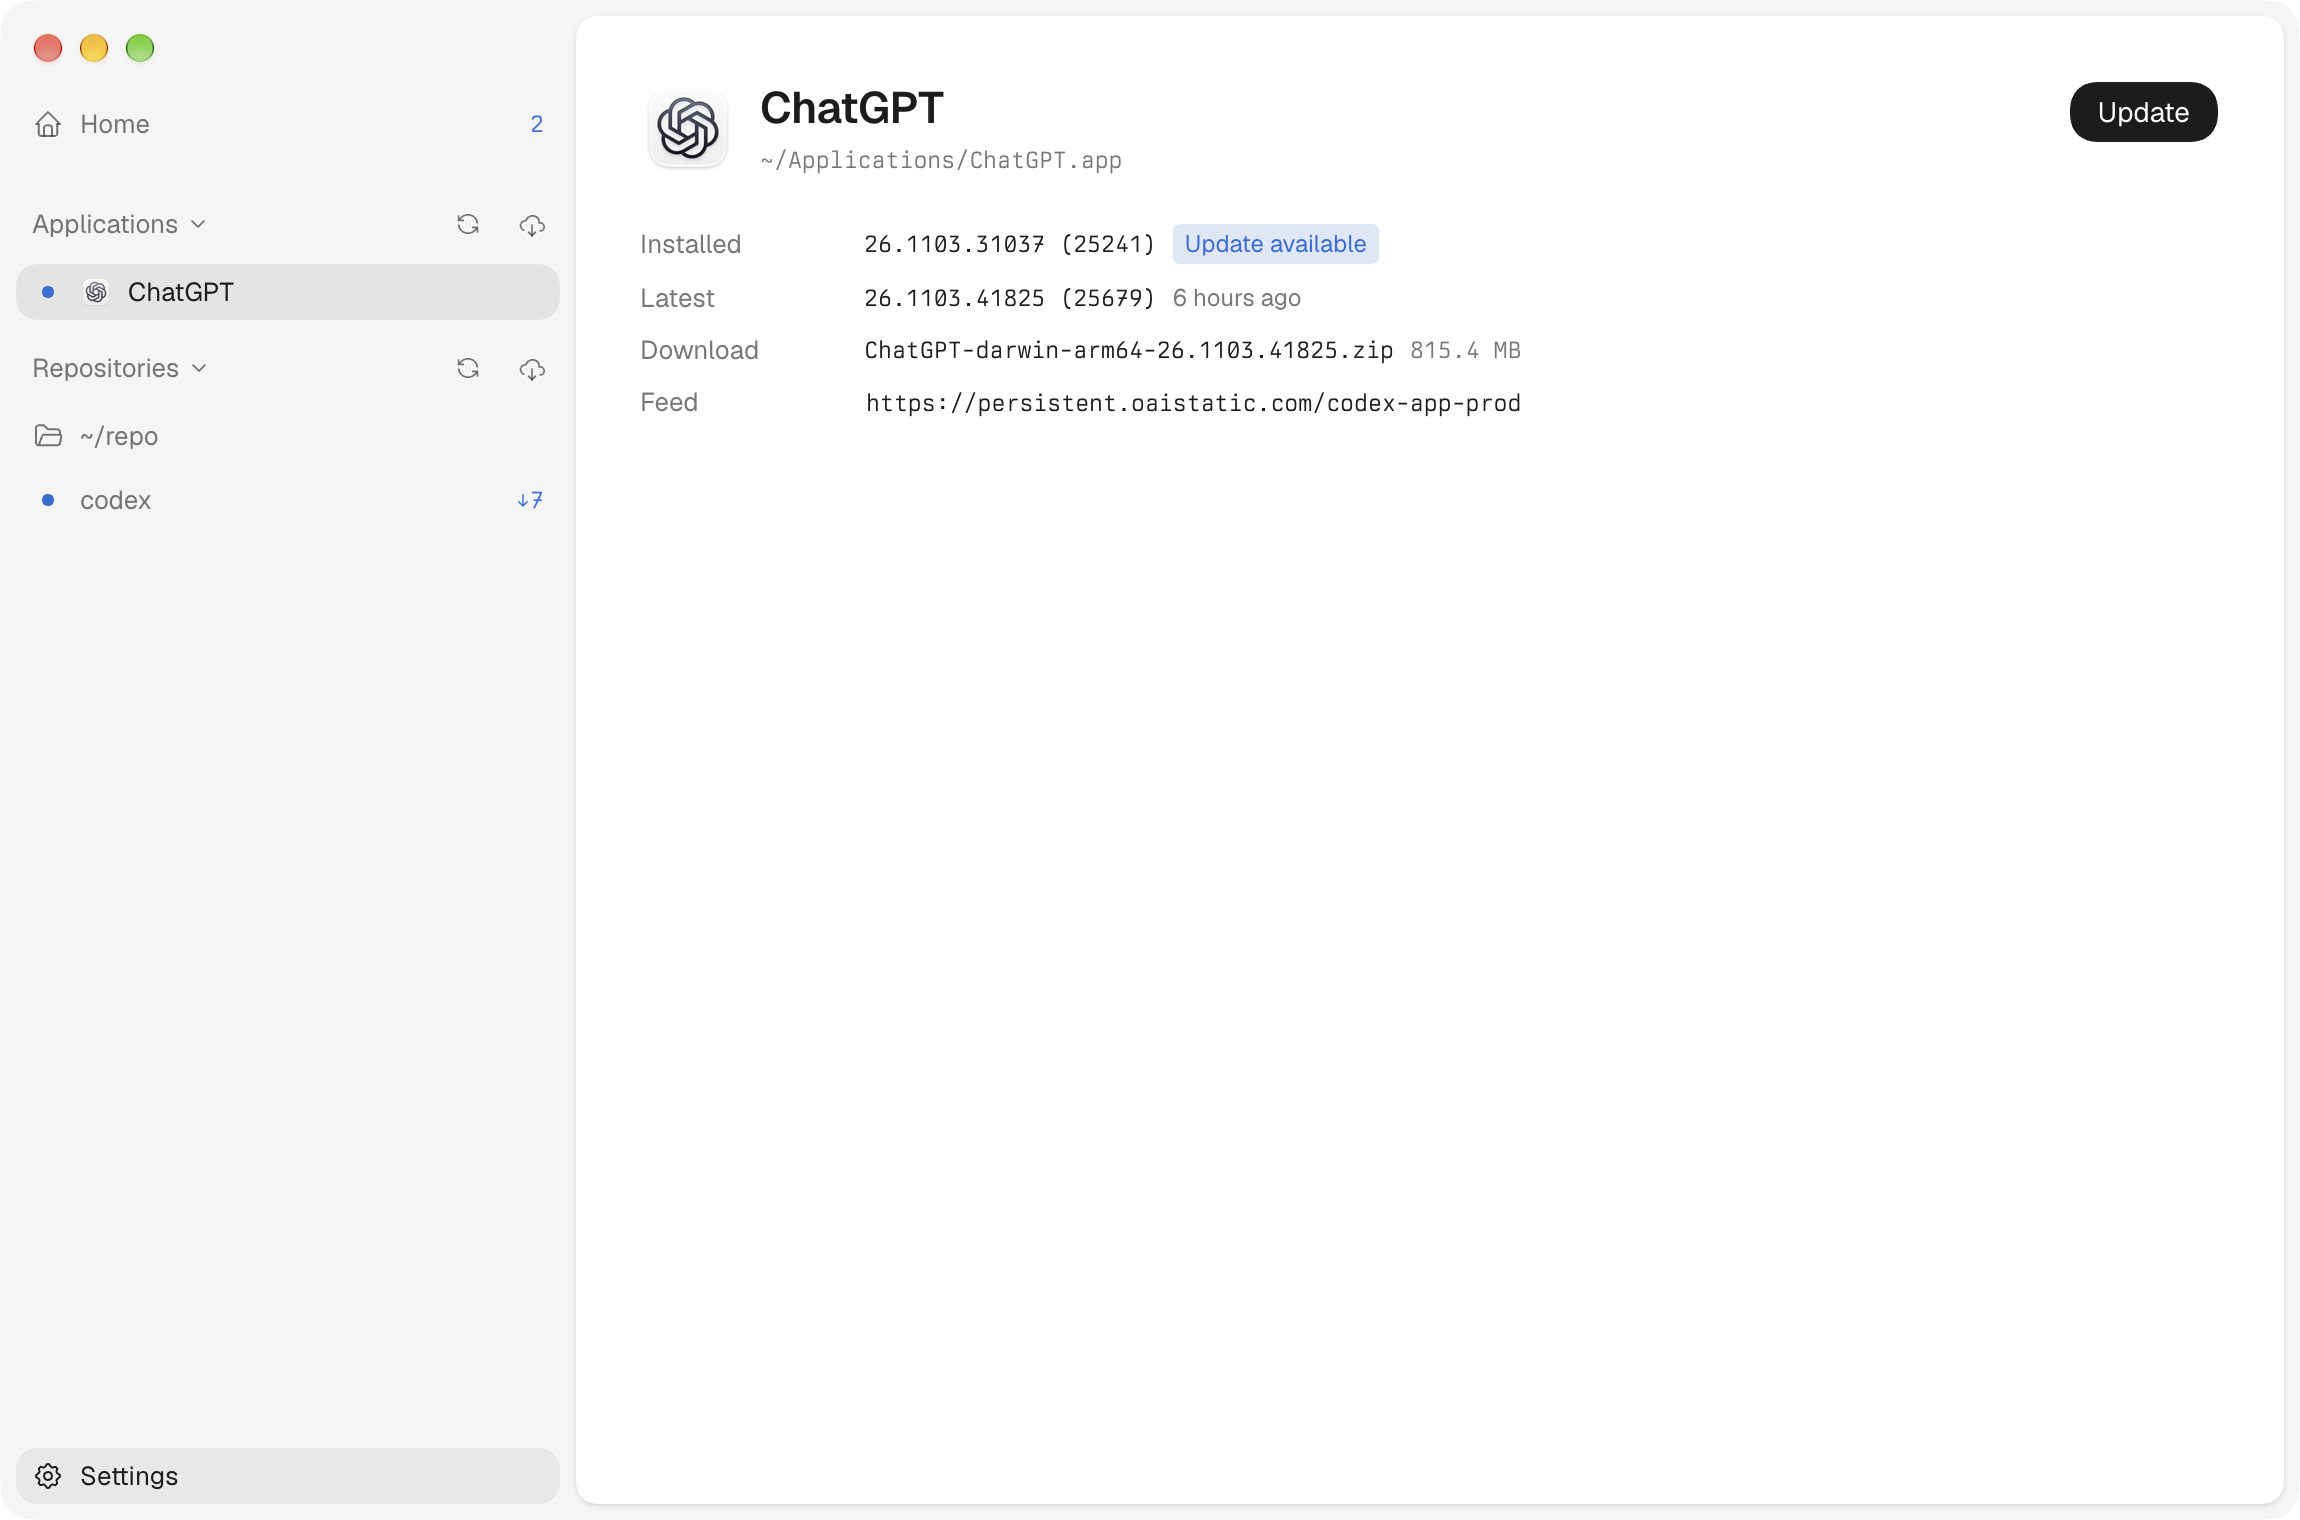
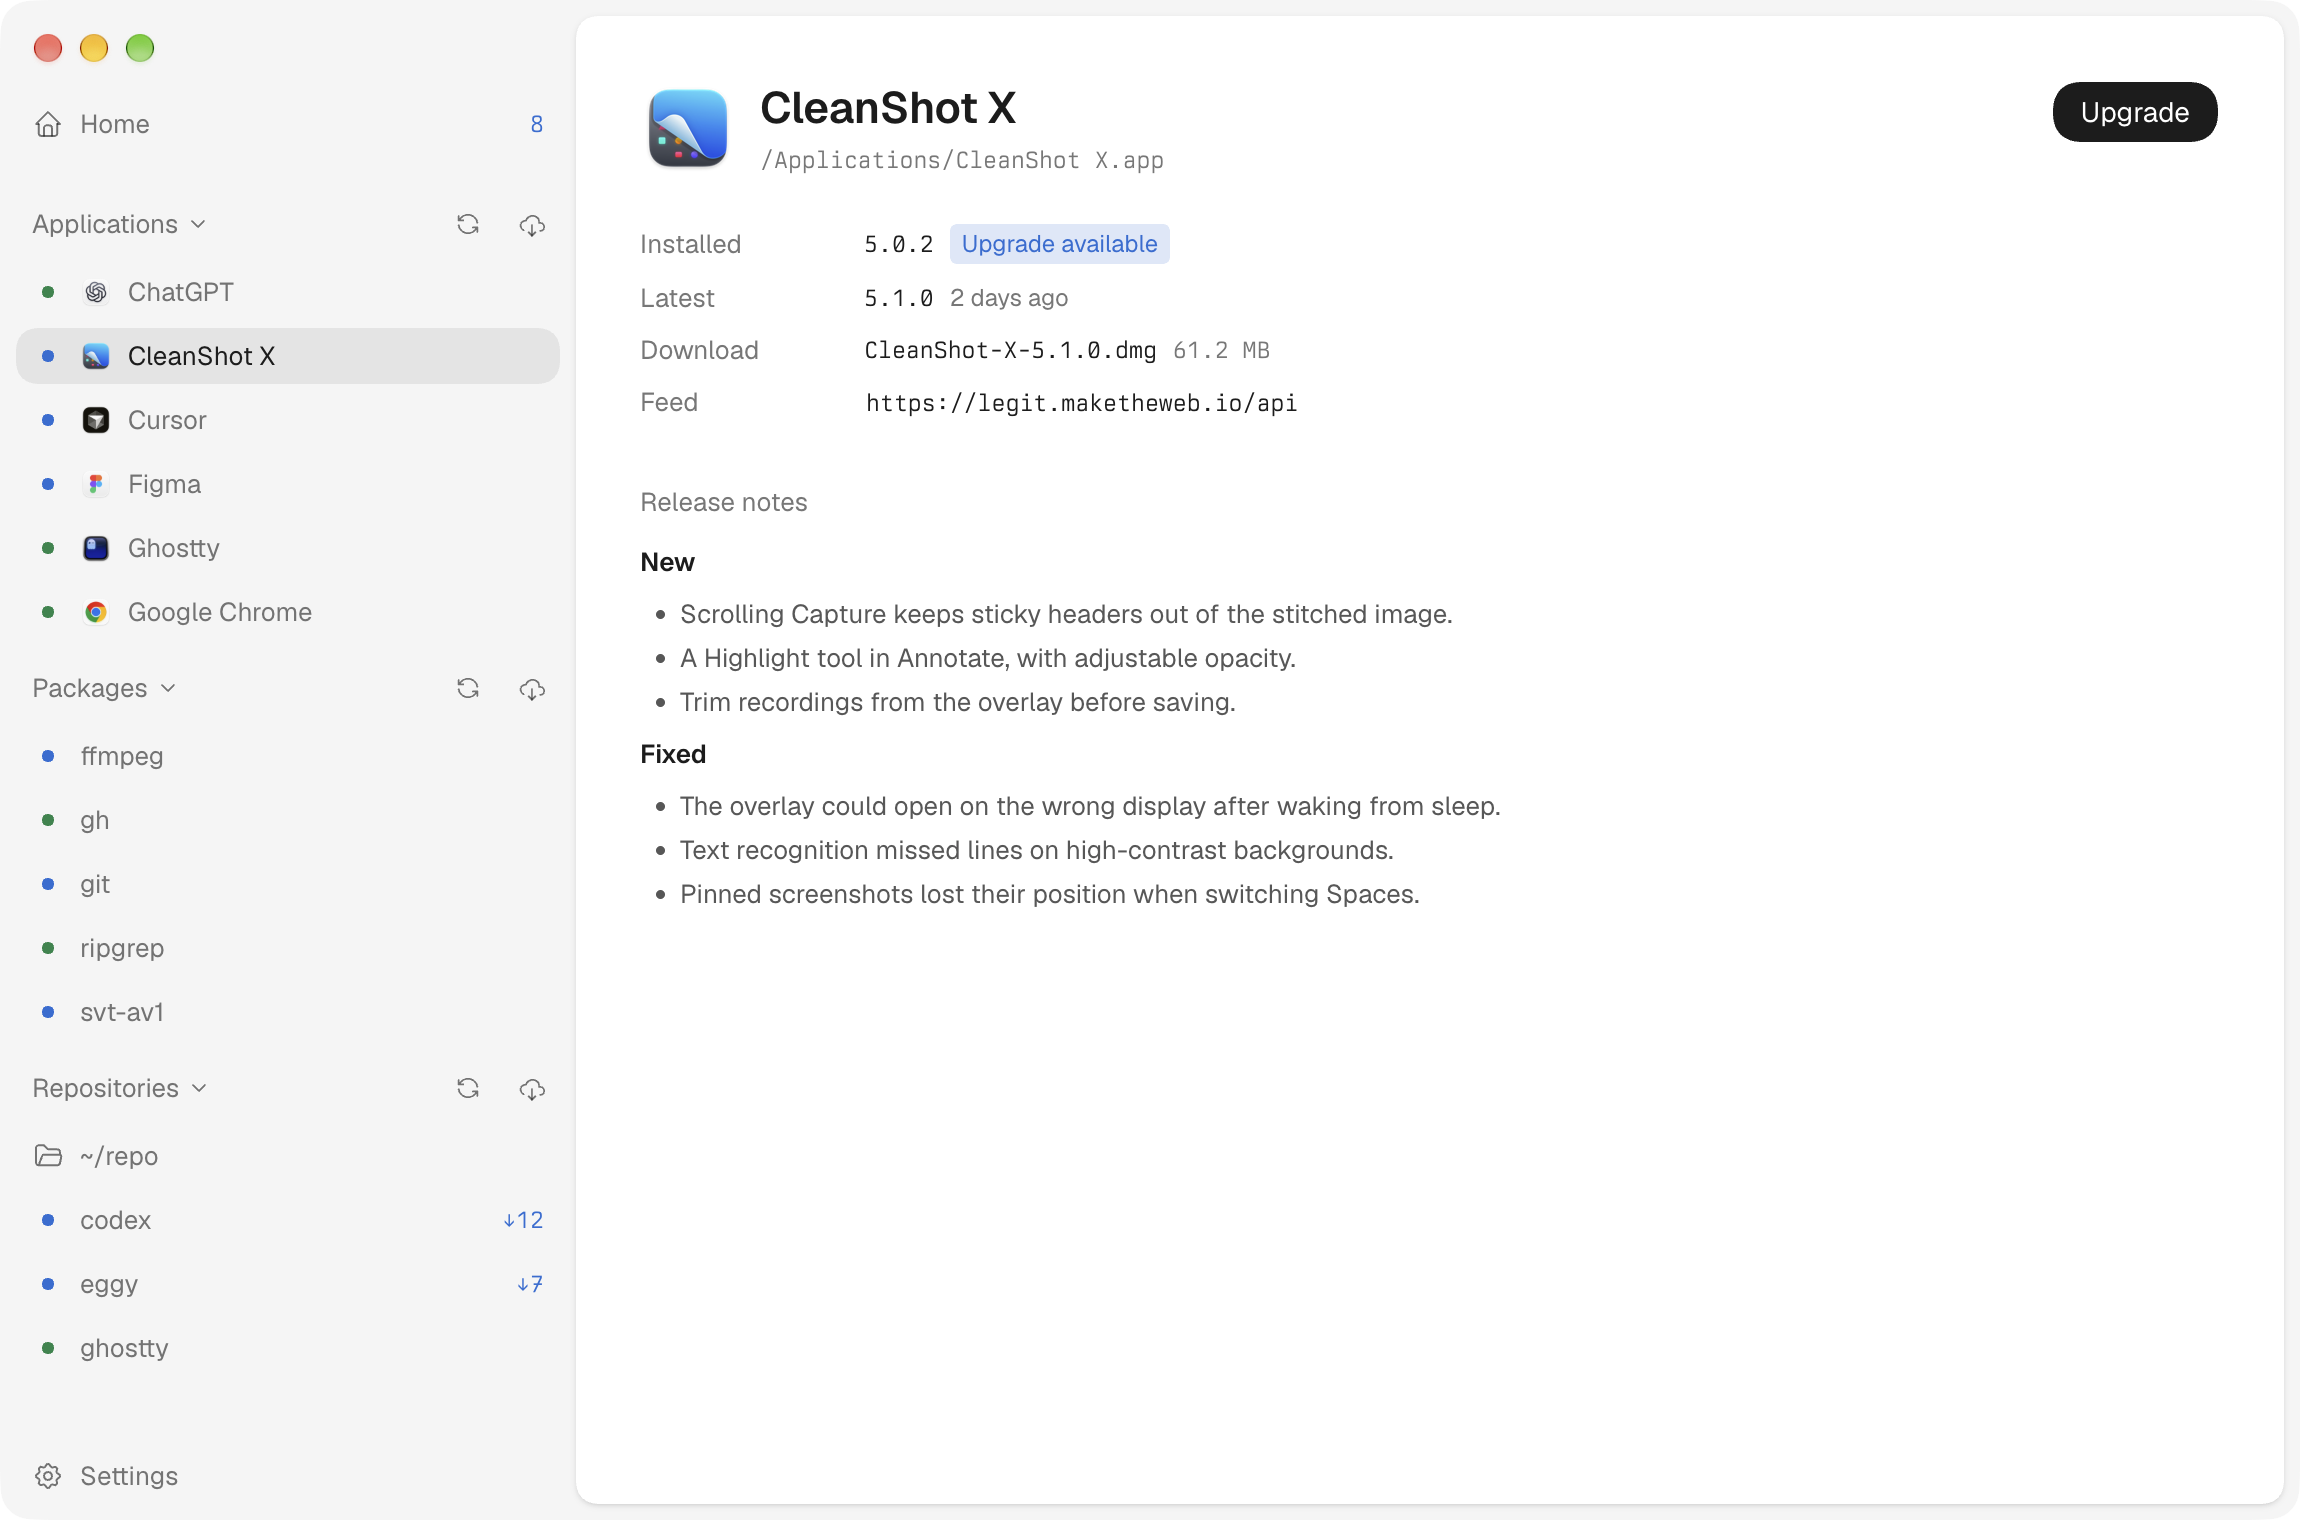
docs: tighten readme and refresh screenshots
describe what each feature runs instead of selling it, and show packages

- rewrite the readme in short technical sentences with exact commands
- state how application upgrades are verified per feed type
- retake home, application, and repository screenshots with sample data
- add a package screenshot of an upgrade streaming brew output

diff --git a/README.md b/README.md
@@ -2,29 +2,37 @@
 
 # eggy
 
-A macOS app that keeps installed applications, Homebrew packages, and local git repositories up to date from one window.
+macOS app that updates installed applications, Homebrew packages, and local git repositories.
 
-![Home with an application upgrade and a repository behind its upstream](docs/screenshots/home.png)
+![Home with upgrades waiting across applications, packages, and repositories](docs/screenshots/home.png)
 
 ## Applications
 
-eggy lists the apps in `/Applications` and `~/Applications` that publish an update feed: Sparkle appcasts, electron-updater feeds, and a few apps such as Chrome, Cursor, Figma, and Ghostty that pick their feed at launch.
+Scans `/Applications` and `~/Applications` for apps with a supported update feed:
 
-Each app shows its installed and latest versions, the release date, the download size, and release notes when the feed has them. Upgrading downloads and verifies the release, then swaps the bundle in place and moves the old one to the Trash. A running app is force quit and reopened only after you confirm.
+- Sparkle appcasts
+- electron-updater feeds
+- per-app feeds for apps that resolve their feed at launch, such as Chrome, Cursor, Figma, and Ghostty
 
-![ChatGPT with an upgrade available](docs/screenshots/application.png)
+Each app shows installed and latest versions, release date, download size, and release notes when the feed provides them.
+
+An upgrade downloads and unpacks the release, then verifies it. Sparkle releases are checked against the app's EdDSA key. Other releases must satisfy the installed app's designated code signing requirement and match the feed's checksum when one is published. The new bundle replaces the old one in place, and the old bundle moves to the Trash. Running apps are force quit and relaunched only after confirmation.
+
+![CleanShot X with an upgrade available and its release notes](docs/screenshots/application.png)
 
 ## Packages
 
-The Homebrew formulae and casks you installed show up with their installed and latest versions, along with any dependency that has fallen behind. Checking runs `brew update` first. Upgrades run `brew upgrade` one package at a time and show their output on the package's page. Pinned packages and casks that update themselves are left alone, as Homebrew does by default.
+Lists installed Homebrew formulae and casks with installed and latest versions, including outdated dependencies. Checking runs `brew update` first. Upgrading runs `brew upgrade` for one package at a time and streams the output to the package page. Pinned packages and `auto_updates` casks are skipped, matching Homebrew's defaults.
+
+![ffmpeg upgrading along with an outdated dependency](docs/screenshots/package.png)
 
 ## Repositories
 
-Every git repository under a folder you pick, `~/repo` by default, whose current branch tracks an upstream shows up with how far it is ahead or behind. Pulling only fast-forwards. A branch that has diverged can rebase instead, and a rebase that hits a conflict is aborted so the branch stays as it was.
+Scans a configurable folder, `~/repo` by default, for git repositories whose current branch tracks an upstream, and shows ahead and behind counts. Pulling uses `git pull --ff-only`. Diverged branches can rebase with `git pull --rebase --autostash`. A rebase that stops on a conflict is aborted, restoring the branch and any stashed changes.
 
-Selecting a commit opens its message and diff beside the history.
+Selecting a commit shows its message and diff next to the history.
 
-![The codex repository with a commit diff open](docs/screenshots/repository.png)
+![The eggy repository with a commit diff open](docs/screenshots/repository.png)
 
 ## Development
 
@@ -33,4 +41,4 @@ pnpm install
 pnpm dev
 ```
 
-`pnpm build:mac` packages the app, signed with a local code signing identity named `Local Development Code Signing`.
+`pnpm build:mac` packages the app and signs it with a local code signing identity named `Local Development Code Signing`.
